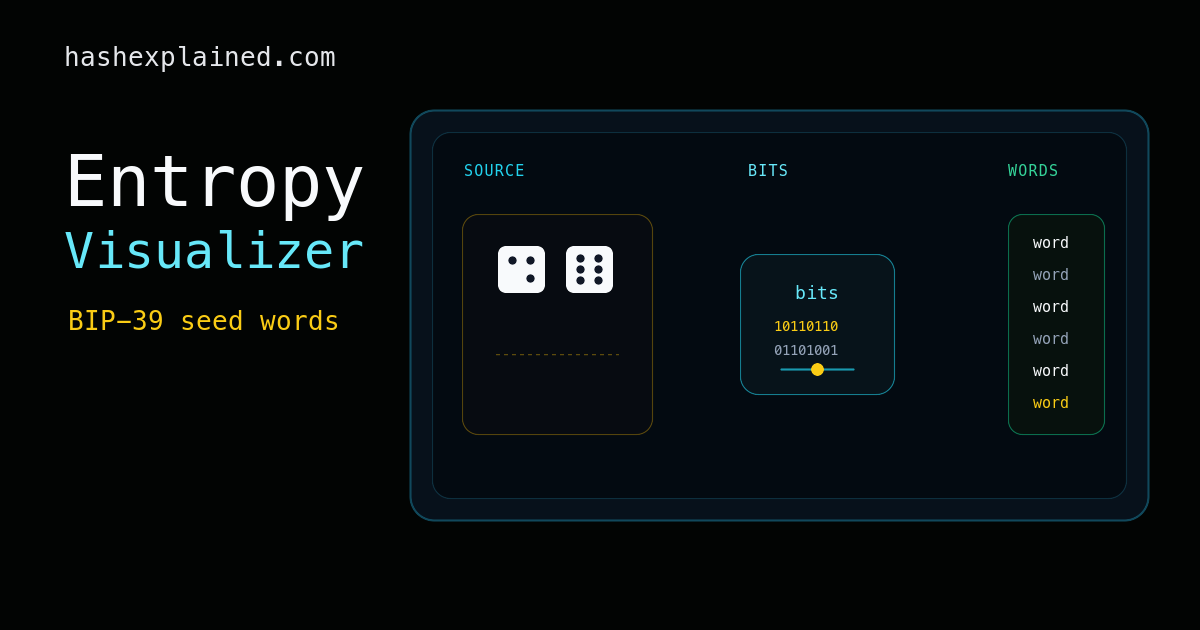
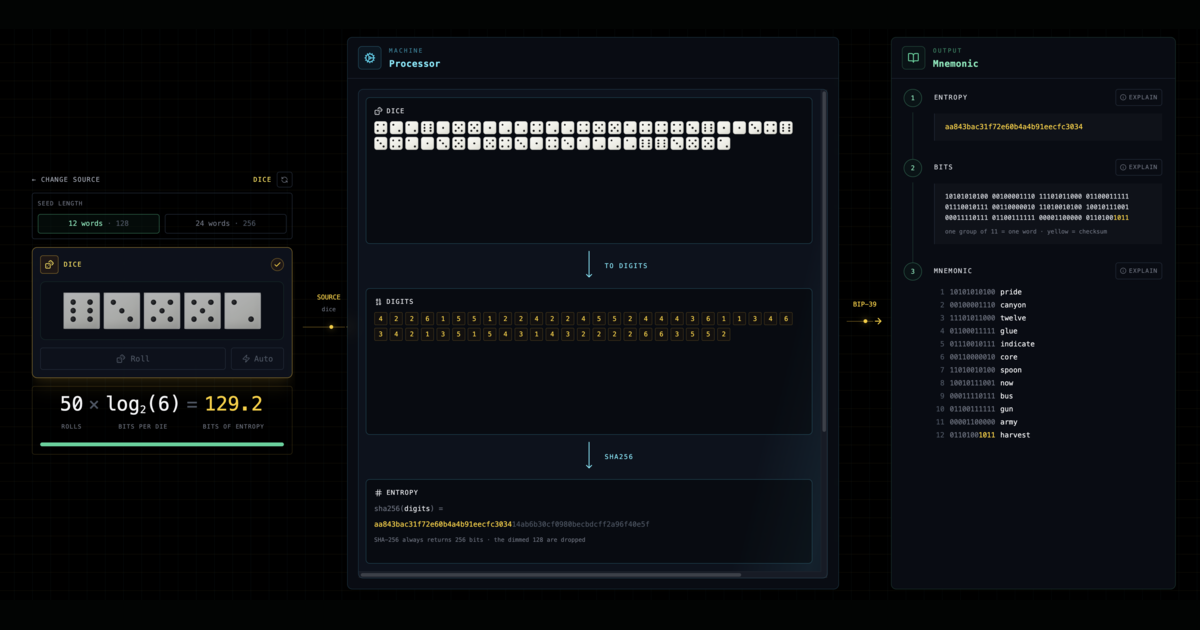
add pages thumbnail

diff --git a/public/index.html b/public/index.html
@@ -5,21 +5,22 @@
     <meta name="viewport" content="width=device-width, initial-scale=1.0">
     <meta name="theme-color" content="#111827" />
     <meta name="google-site-verification" content="2QLK2BxurCNvO4ivWWJPNwpGbM6I_ckftPGOfFyTpM4" />
-    <meta name="keywords" content="SHA-256, hash algorithm, cryptography, hash function, SHA-256 visualizer, SHA-256 explained, secure hash algorithm, Merkle tree, Merkle proof, Bitcoin Merkle root, Git hash tree, IPFS CID, data integrity, tamper detection" />
+    <meta name="keywords" content="SHA-256, hash algorithm, cryptography, hash function, SHA-256 visualizer, entropy visualizer, BIP-39 seed words, TRNG, PRNG, dice entropy, coin flip entropy, Merkle tree, Merkle proof, Bitcoin Merkle root, Git hash tree, IPFS CID, data integrity, tamper detection" />
     <meta name="author" content="Hash Explained" />
-    <meta name="description" content="Interactive step-by-step visualizations of SHA-256, the avalanche effect, and Merkle trees. See every rotation, XOR, and round of cryptographic hash algorithms." />
+    <meta name="description" content="Interactive visual explanations of cryptography concepts: SHA-256, Merkle trees, entropy sources, seed words, and signatures." />
     <meta property="og:type" content="website" />
     <meta property="og:url" content="https://hashexplained.com/" />
-    <meta property="og:title" content="Hash Explained - Interactive Cryptographic Hash Visualizers" />
-    <meta property="og:description" content="Interactive step-by-step visualizations of SHA-256, the avalanche effect, and Merkle trees." />
+    <meta property="og:title" content="Hash Explained - Interactive Cryptography Visualizers" />
+    <meta property="og:description" content="Visual tools for SHA-256, Merkle trees, entropy, seed words, and signatures." />
     <meta property="og:site_name" content="Hash Explained" />
-    <meta property="og:image" content="https://hashexplained.com/social.png" />
+    <meta property="og:image" content="https://hashexplained.com/thumbnail_home.png" />
+    <meta property="og:image:alt" content="Hash Explained: visual cryptography tools for hashes, entropy, and proofs" />
     <meta property="og:image:width" content="1200" />
     <meta property="og:image:height" content="630" />
     <meta name="twitter:card" content="summary_large_image" />
-    <meta name="twitter:title" content="Hash Explained - Interactive Cryptographic Hash Visualizers" />
-    <meta name="twitter:description" content="Interactive step-by-step visualizations of SHA-256, the avalanche effect, and Merkle trees." />
-    <meta name="twitter:image" content="https://hashexplained.com/social.png" />
+    <meta name="twitter:title" content="Hash Explained - Interactive Cryptography Visualizers" />
+    <meta name="twitter:description" content="Visual tools for SHA-256, Merkle trees, entropy, seed words, and signatures." />
+    <meta name="twitter:image" content="https://hashexplained.com/thumbnail_home.png" />
     <link rel="manifest" href="%PUBLIC_URL%/manifest.json" />
     <title>Hash Explained</title>
 
@@ -31,7 +32,8 @@
       "itemListElement": [
         { "@type": "ListItem", "position": 1, "name": "Home", "item": "https://hashexplained.com/" },
         { "@type": "ListItem", "position": 2, "name": "SHA-256 Visualizer", "item": "https://hashexplained.com/sha256" },
-        { "@type": "ListItem", "position": 3, "name": "Merkle Tree Explorer", "item": "https://hashexplained.com/merkle-tree" }
+        { "@type": "ListItem", "position": 3, "name": "Merkle Tree Explorer", "item": "https://hashexplained.com/merkle-tree" },
+        { "@type": "ListItem", "position": 4, "name": "Entropy Visualizer", "item": "https://hashexplained.com/entropy" }
       ]
     }
     </script>

diff --git a/api/og.js b/api/og.js
@@ -1,18 +1,23 @@
 const PAGES = {
+  '/entropy': {
+    title: 'Entropy Visualizer - Randomness to Secret Data | Hash Explained',
+    description: 'Choose dice, coins, TRNG, or PRNG and watch randomness become bits and seed words.',
+    image: 'https://hashexplained.com/thumbnail_entropy.png',
+  },
   '/merkle-tree': {
     title: 'Merkle Tree Explorer - Interactive Visualization | Hash Explained',
     description: 'Build, tamper, and verify Merkle trees interactively. See how Bitcoin, Git, and IPFS use them.',
-    image: 'https://hashexplained.com/thubmnail_merkle.png',
+    image: 'https://hashexplained.com/thumbnail_merkle_tree.png',
   },
   '/sha256': {
     title: 'SHA-256 Visualizer - Step by Step | Hash Explained',
     description: 'Interactive step-by-step visualization of the SHA-256 algorithm. See every rotation, XOR, and round.',
-    image: 'https://hashexplained.com/social.png',
+    image: 'https://hashexplained.com/thumbnail_sha256.png',
   },
   '/': {
-    title: 'Hash Explained - Interactive Cryptographic Hash Visualizers',
-    description: 'Interactive step-by-step visualizations of SHA-256, the avalanche effect, and Merkle trees.',
-    image: 'https://hashexplained.com/social.png',
+    title: 'Hash Explained - Interactive Cryptography Visualizers',
+    description: 'Visual tools for SHA-256, Merkle trees, entropy, seed words, and signatures.',
+    image: 'https://hashexplained.com/thumbnail_home.png',
   },
 };
 
